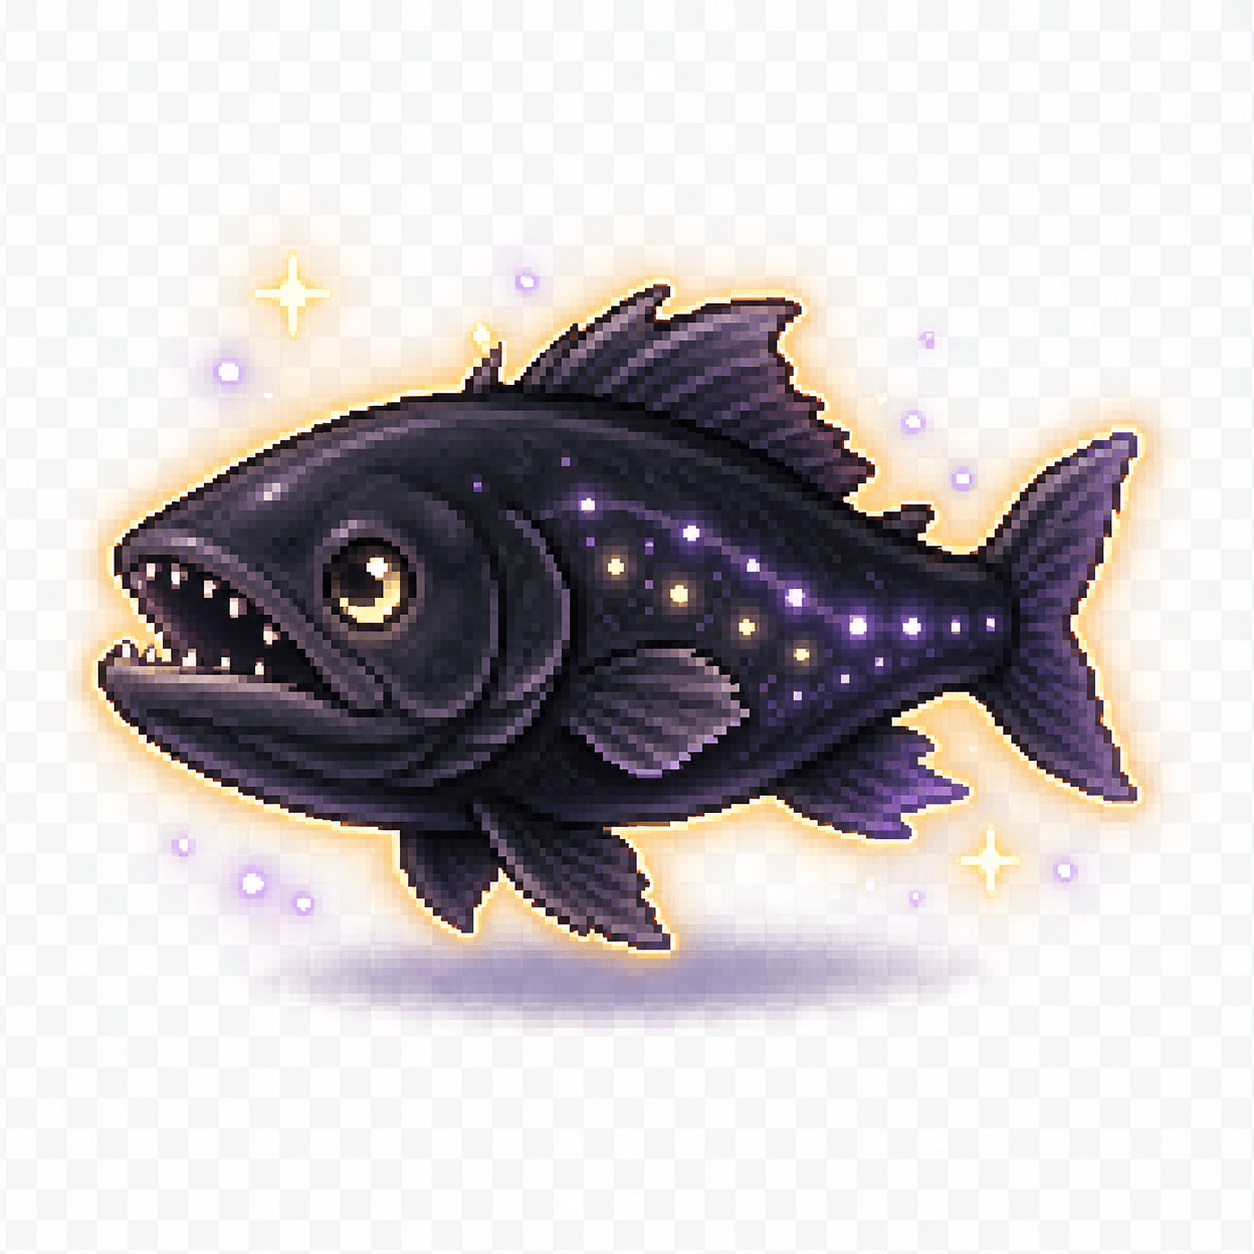
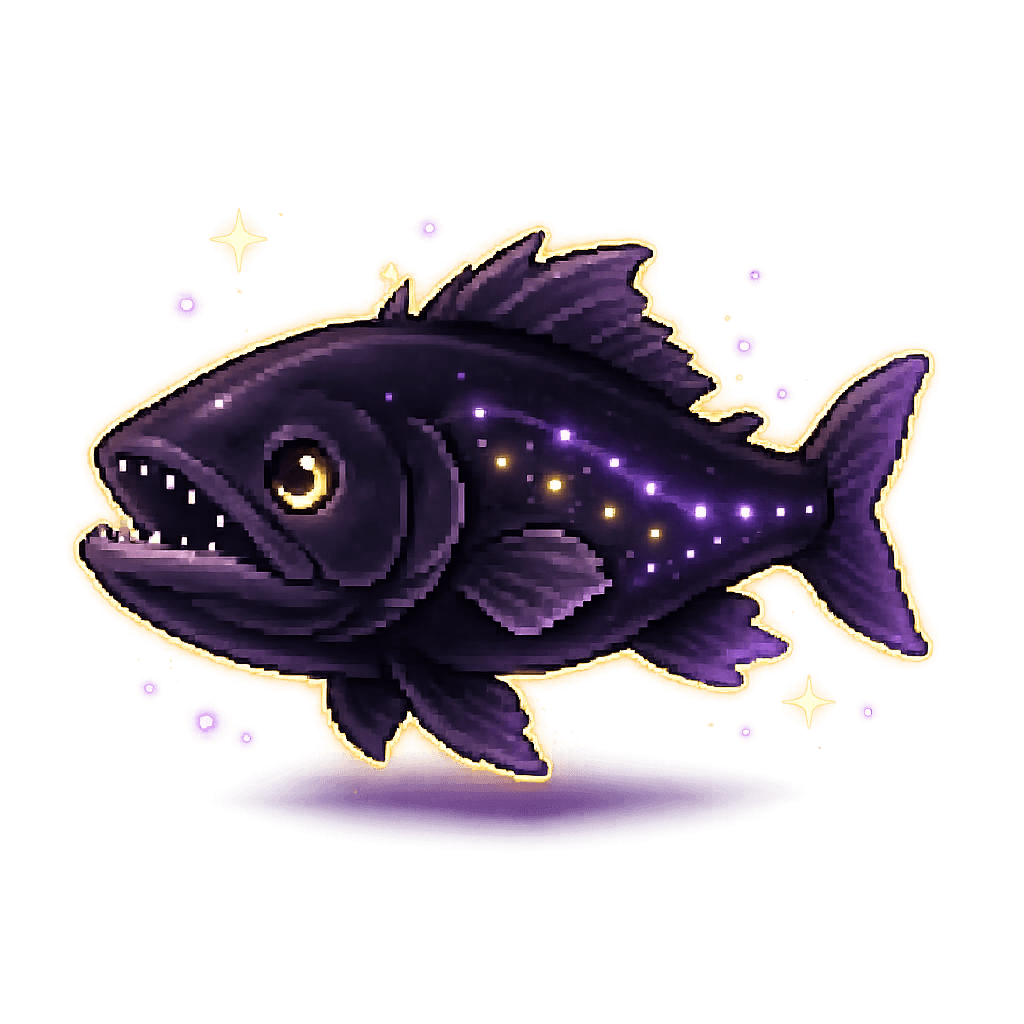
feat: optimize fish popup image sizing and update sprite assets

Changed region(s): [[0.0312, 0.1875, 0.9375, 0.8125], [0.7188, 0.25, 0.75, 0.2812], [0.375, 0.375, 0.4062, 0.4062]]

diff --git a/style.css b/style.css
@@ -1317,11 +1317,11 @@ html, body {
 /* 立绘舞台: 固定取景区 (最大 80vw × 55vh)。深色径向渐变 + 鱼身后一团柔光椭圆(::before),
    取代原来的浅色底板 —— contain 产生的留白融进暗背景里, 不再像"白框"。
    任意长宽比的原图都完整显示 —— 很宽的图上下留白, 很高的图左右留白, 永不拉伸变形。 */
-.fishcg-stage-wrap { position: relative; width: min(80vw, 330px); margin: 12px auto; }
+.fishcg-stage-wrap { position: relative; width: min(80vw, 300px); margin: 12px auto; }
 .fishcg-stage {
   position: relative;
   width: 100%;
-  height: min(55vh, 330px);
+  height: 180px;
   background: radial-gradient(ellipse at 50% 52%, #14293a 0%, #071018 72%);
   border: 1px solid var(--fc-line);
   border-radius: 12px;
@@ -1359,19 +1359,28 @@ html, body {
   letter-spacing: 0.5px;
 }
 .fishcg-new-badge.hidden { display: none; }
+/* 立绘尺寸规则: 按原始像素尺寸显示, 只在超出取景框时等比缩小, 绝不放大拉伸 ——
+   这是"糊"的根因修复 (原来是 width/height:100% 强行把图撑满整个高框)。
+   width/height:auto + max-*:100% 的组合天然满足"最多原始尺寸"的约束, 外层 flex 负责居中。 */
 .fishcg-img {
   position: relative;
   z-index: 1;
-  width: 100%;
-  height: 100%;
-  object-fit: contain; /* 关键: 完整显示整幅立绘, letterbox 而不是裁剪/拉伸 */
+  width: auto;
+  height: auto;
+  max-width: 100%;
+  max-height: 100%;
+  object-fit: contain; /* 完整显示整幅立绘, letterbox 而不是裁剪/拉伸 */
   display: block;
 }
+/* 像素图回退才需要 pixelated: 它是真·像素画且要放大显示, 最近邻才能保住硬边。
+   上面的 .fishcg-img 是 500~1536px 的大图且总是被缩小, 用 pixelated 反而会产生锯齿, 故不加。 */
 .fishcg-fallback-pixel {
   position: relative;
   z-index: 1;
   image-rendering: pixelated;
+  image-rendering: crisp-edges;
   width: 60%;
+  max-height: 100%;
   height: auto;
   object-fit: contain;
 }

diff --git a/js/fishcg.js b/js/fishcg.js
@@ -11,7 +11,7 @@ import { state } from "./state.js";
 import { sfx } from "./audio.js";
 
 const CG_DIR = "assets/fish/";
-// 素材里绝大多数是 png, 个别是 jpg (如 胭脂鱼.jpg) —— 按顺序尝试, 都失败才算这条鱼没有立绘
+// 目前 assets/fish 下全部是 png (去背版), jpg 仅作为向后兼容的兜底 —— 按顺序尝试, 都失败才算这条鱼没有立绘
 const CG_EXTS = ["png", "jpg"];
 // 性能护栏: 超过这个长边尺寸的原图, 一次性缩放进离屏canvas缓存, 之后所有渲染都复用缩放后的版本,
 // 避免个别超大源文件(如 1254px 的巨口黑鱼)在移动端反复解码/缩放拖慢图鉴滚动。
